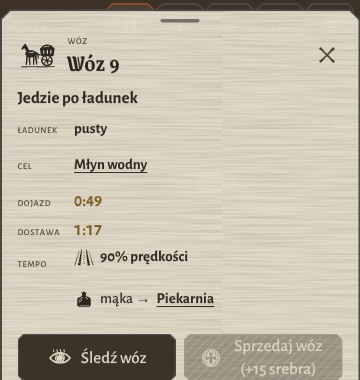
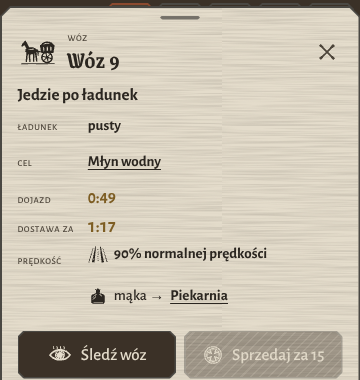
i18n for 17 languages: lazy dictionaries, ICU-lite plurals, RTL dir, per-script font stacks (D-18)
Claude-Session: https://claude.ai/code/session_019bNUiNWDs1XtC7FDp2iuqt

diff --git a/src/i18n/index.ts b/src/i18n/index.ts
@@ -1,24 +1,92 @@
+// i18n: typed dictionaries (pl.ts is the key source, D-11), lazily loaded per language (D-18),
+// ICU-lite plurals via Intl.PluralRules, RTL direction and per-script font stacks.
 import { en } from './en';
 import { pl, type Dict, type MessageKey } from './pl';
 
-export type Lang = 'pl' | 'en';
-const dicts: Record<Lang, Dict> = { pl, en };
-let current: Lang = 'pl';
+/** Supported languages (owner's list, D-18). Order = order in the settings list. */
+export const LANGS = [
+  'en', 'pl', 'de', 'fr', 'es', 'it', 'pt-BR', 'nl', 'sv', 'tr', 'ru', 'uk', 'ja', 'ko', 'zh-Hans', 'ar', 'hi',
+] as const;
+export type Lang = (typeof LANGS)[number];
+
+/** Native names for the language picker (never translated). */
+export const LANG_NAMES: Record<Lang, string> = {
+  en: 'English', pl: 'Polski', de: 'Deutsch', fr: 'Français', es: 'Español', it: 'Italiano',
+  'pt-BR': 'Português (Brasil)', nl: 'Nederlands', sv: 'Svenska', tr: 'Türkçe', ru: 'Русский',
+  uk: 'Українська', ja: '日本語', ko: '한국어', 'zh-Hans': '简体中文', ar: 'العربية', hi: 'हिन्दी',
+};
+
+export const RTL_LANGS: ReadonlySet<Lang> = new Set<Lang>(['ar']);
+
+/** Script family -> CSS class on <html> so styles can switch font stacks (see main.css). */
+export function scriptOf(l: Lang): 'latin' | 'cyrillic' | 'cjk' | 'arabic' | 'devanagari' {
+  if (l === 'ru' || l === 'uk') return 'cyrillic';
+  if (l === 'ja' || l === 'ko' || l === 'zh-Hans') return 'cjk';
+  if (l === 'ar') return 'arabic';
+  if (l === 'hi') return 'devanagari';
+  return 'latin';
+}
+
+/**
+ * Lazy loaders for the other dictionaries. A missing file simply falls back to English per key,
+ * so a language can ship partially translated during development.
+ */
+const loaders = import.meta.glob<{ default?: Partial<Dict> } & Record<string, Partial<Dict>>>(['./*.ts', '!./index.ts', '!./pl.ts', '!./en.ts']);
+const dicts: Partial<Record<Lang, Partial<Dict>>> = { pl, en };
+
+let current: Lang = 'en';
 const listeners = new Set<() => void>();
+
+function isLang(x: string | null | undefined): x is Lang {
+  return !!x && (LANGS as readonly string[]).includes(x);
+}
 
 export function detectLang(): Lang {
   try {
     const saved = localStorage.getItem('marchia.lang');
-    if (saved === 'pl' || saved === 'en') return saved;
+    if (isLang(saved)) return saved;
   } catch { /* storage unavailable */ }
-  const nav = typeof navigator !== 'undefined' ? navigator.language.toLowerCase() : 'pl';
-  return nav.startsWith('pl') ? 'pl' : 'en';
+  const navs = typeof navigator !== 'undefined' ? [...(navigator.languages ?? []), navigator.language] : [];
+  for (const raw of navs) {
+    const n = raw.toLowerCase();
+    if (n.startsWith('pt')) return 'pt-BR';
+    if (n.startsWith('zh')) return 'zh-Hans';
+    const base = n.split('-')[0]!;
+    const hit = LANGS.find((l) => l.toLowerCase() === base);
+    if (hit) return hit;
+  }
+  return 'en';
 }
 
-export function setLang(l: Lang): void {
+/** Languages that have a dictionary in the build (others are hidden in the picker until translated). */
+export function availableLangs(): Lang[] {
+  return LANGS.filter((l) => l === 'pl' || l === 'en' || `./${l.replace('-', '_')}.ts` in loaders);
+}
+
+export function parseLang(x: string | null | undefined): Lang | null {
+  return isLang(x) ? x : null;
+}
+
+async function loadDict(l: Lang): Promise<void> {
+  if (dicts[l]) return;
+  const file = `./${l.replace('-', '_')}.ts`;
+  const loader = loaders[file];
+  if (!loader) return; // not translated yet: English fallback
+  const mod = await loader();
+  const exportName = l.replace('-', '_').replace(/[^a-zA-Z_]/g, '');
+  dicts[l] = mod[exportName] ?? mod.default ?? {};
+}
+
+/** Switch language; resolves once the dictionary is loaded. Listeners re-render afterwards. */
+export async function setLang(l: Lang): Promise<void> {
+  await loadDict(l);
   current = l;
+  pluralCache = null;
   try { localStorage.setItem('marchia.lang', l); } catch { /* ignore */ }
-  document.documentElement.lang = l;
+  const root = document.documentElement;
+  root.lang = l;
+  root.dir = RTL_LANGS.has(l) ? 'rtl' : 'ltr';
+  root.dataset.script = scriptOf(l);
   for (const f of listeners) f();
 }
 
@@ -31,11 +99,34 @@ export function onLangChange(f: () => void): () => void {
   return () => listeners.delete(f);
 }
 
-/** Translate with {param} substitution. */
+let pluralCache: Intl.PluralRules | null = null;
+function pluralRules(): Intl.PluralRules {
+  return (pluralCache ??= new Intl.PluralRules(current));
+}
+
+/**
+ * ICU-lite plural blocks: `{n, plural, one {# wóz} few {# wozy} many {# wozów} other {# wozu}}`.
+ * `#` is replaced by the number. Categories follow Intl.PluralRules for the current language;
+ * `other` is required. Nested braces inside a branch are not supported (keep messages flat).
+ */
+export function formatPlural(s: string, params: Record<string, string | number>): string {
+  return s.replace(/\{(\w+), plural,((?:\s*(?:=\d+|zero|one|two|few|many|other)\s*\{[^{}]*\})+)\s*\}/g, (_m, name: string, body: string) => {
+    const n = Number(params[name] ?? 0);
+    const branches = new Map<string, string>();
+    body.replace(/\s*(=\d+|zero|one|two|few|many|other)\s*\{([^{}]*)\}/g, (_x, k: string, v: string) => { branches.set(k, v); return ''; });
+    const text = branches.get('=' + n) ?? branches.get(pluralRules().select(n)) ?? branches.get('other') ?? '';
+    return text.split('#').join(new Intl.NumberFormat(current).format(n));
+  });
+}
+
+/** Translate with plural blocks and {param} substitution; falls back to English, then the key. */
 export function t(key: MessageKey, params?: Record<string, string | number>): string {
-  let s: string = dicts[current][key] ?? key;
-  if (params) for (const [k, v] of Object.entries(params)) s = s.split('{' + k + '}').join(String(v));
+  let s: string = dicts[current]?.[key] ?? en[key] ?? key;
+  if (params) {
+    if (s.includes(', plural,')) s = formatPlural(s, params);
+    for (const [k, v] of Object.entries(params)) s = s.split('{' + k + '}').join(String(v));
+  }
   return s;
 }
 
-export type { MessageKey };
+export type { MessageKey, Dict };

diff --git a/src/styles/main.css b/src/styles/main.css
@@ -53,7 +53,7 @@ html, body {
   overflow: hidden;
   background: var(--ink);
   color: var(--ink);
-  font-family: 'Alegreya Sans', 'Gill Sans', 'Trebuchet MS', sans-serif;
+  font-family: var(--font-body);
   font-size: 15px;
   line-height: 1.3;
   -webkit-text-size-adjust: 100%;
@@ -80,7 +80,7 @@ button:focus-visible, [tabindex]:focus-visible { outline: 2px solid var(--ochre)
 svg { display: block; fill: currentColor; flex: none; }
 
 .num { font-variant-numeric: tabular-nums lining-nums; }
-.gothic { font-family: 'Grenze Gotisch', serif; font-weight: 600; letter-spacing: .01em; }
+.gothic { font-family: var(--font-head); font-weight: 600; letter-spacing: .01em; }
 
 #app { position: fixed; inset: 0; overflow: hidden; }
 
@@ -179,7 +179,7 @@ body.is-clear #hud, body.is-clear #markers, body.is-clear #sheets, body.is-clear
   width: 10px; height: 10px; background: radial-gradient(circle at 35% 35%, #8a8478 0 18%, var(--iron) 22%); clip-path: polygon(30% 0, 70% 0, 100% 30%, 100% 70%, 70% 100%, 30% 100%, 0 70%, 0 30%);
 }
 .menu-strip .title {
-  font-family: 'Grenze Gotisch', serif;
+  font-family: var(--font-head);
   font-weight: 700;
   font-size: 52px;
   line-height: .95;
@@ -210,7 +210,7 @@ body.is-clear #hud, body.is-clear #markers, body.is-clear #sheets, body.is-clear
   align-items: center;
   gap: 12px;
   text-align: left;
-  font-family: 'Grenze Gotisch', serif;
+  font-family: var(--font-head);
   font-weight: 600;
   font-size: 26px;
   line-height: 1.05;
@@ -224,7 +224,7 @@ body.is-clear #hud, body.is-clear #markers, body.is-clear #sheets, body.is-clear
 .menu-item.primary .mi-mark { background: var(--clay); }
 .menu-item .mi-sub {
   display: block;
-  font-family: 'Alegreya Sans', sans-serif;
+  font-family: var(--font-body);
   font-weight: 400;
   font-size: 13px;
   color: var(--ink-soft);
@@ -255,7 +255,7 @@ body.is-clear #hud, body.is-clear #markers, body.is-clear #sheets, body.is-clear
 }
 .waybill h2 {
   margin: 0 40px 6px 0;
-  font-family: 'Grenze Gotisch', serif;
+  font-family: var(--font-head);
   font-weight: 600;
   font-size: 22px;
   line-height: 1;
@@ -602,7 +602,7 @@ body.is-landscape.left-handed .notice-wrap { right: calc(var(--safe-r) + 12px); 
 .sheet-head .sh-icon { width: 40px; height: 40px; display: grid; place-items: center; flex: none; }
 .sheet-head .sh-text { flex: 1; min-width: 0; }
 .sheet-head .kicker { font-size: 13px; color: var(--ink-soft); font-weight: 500; letter-spacing: .04em; font-variant: small-caps; text-transform: lowercase; }
-.sheet-head h3 { margin: 0; font-family: 'Grenze Gotisch', serif; font-weight: 600; font-size: 28px; line-height: 1.05; }
+.sheet-head h3 { margin: 0; font-family: var(--font-head); font-weight: 600; font-size: 28px; line-height: 1.05; }
 .sheet-head .close { width: 48px; height: 48px; display: grid; place-items: center; color: var(--ink-soft); }
 .sheet-head .close:active { color: var(--ink); }
 .sheet-body {
@@ -816,7 +816,7 @@ body.is-side .sheet-grip::before { display: none; }
   pointer-events: none;
 }
 .letter .l-kicker { font-size: 13px; letter-spacing: .1em; font-variant: small-caps; text-transform: lowercase; color: var(--ink-soft); font-weight: 500; }
-.letter h2 { margin: 2px 0 8px; font-family: 'Grenze Gotisch', serif; font-weight: 700; font-size: 40px; line-height: 1; }
+.letter h2 { margin: 2px 0 8px; font-family: var(--font-head); font-weight: 700; font-size: 40px; line-height: 1; }
 .letter p { margin: 0 0 12px; font-size: 17px; }
 .big-seal { position: absolute; top: -28px; right: 22px; color: var(--clay); width: 72px; height: 72px; transform: rotate(8deg); }
 .big-seal.broken { color: var(--iron); clip-path: polygon(0 0, 100% 0, 100% 38%, 62% 52%, 70% 100%, 0 100%); }
@@ -1026,4 +1026,29 @@ body.is-book.is-side .sheet { width: min(380px, calc(var(--seg-right-w) - 20px))
 [hidden] { display: none !important; }
 @media (prefers-reduced-motion: reduce) {
   *, *::before, *::after { animation-duration: 1ms !important; transition-duration: 1ms !important; }
+}
+
+
+/* --- Script-specific font stacks (D-18). Latin and Cyrillic are bundled (OFL); CJK, Arabic and
+   Devanagari use the OS Noto families that ship with Android/iOS, to keep the APK small. --- */
+:root {
+  --font-head: 'Grenze Gotisch', serif;
+  --font-body: 'Alegreya Sans', 'Gill Sans', 'Trebuchet MS', sans-serif;
+}
+:root[data-script='cyrillic'] {
+  --font-head: 'Ruslan Display', 'Alegreya Sans', serif;
+}
+:root[data-script='cjk'] {
+  --font-head: 'Noto Serif CJK JP', 'Noto Serif CJK KR', 'Noto Serif CJK SC', 'Noto Serif JP', 'Noto Serif KR', 'Noto Serif SC', serif;
+  --font-body: 'Noto Sans CJK JP', 'Noto Sans CJK KR', 'Noto Sans CJK SC', 'Noto Sans JP', 'Noto Sans KR', 'Noto Sans SC', sans-serif;
+}
+:root[lang='ko'] { --font-head: 'Noto Serif CJK KR', 'Noto Serif KR', serif; --font-body: 'Noto Sans CJK KR', 'Noto Sans KR', sans-serif; }
+:root[lang='zh-Hans'] { --font-head: 'Noto Serif CJK SC', 'Noto Serif SC', serif; --font-body: 'Noto Sans CJK SC', 'Noto Sans SC', sans-serif; }
+:root[data-script='arabic'] {
+  --font-head: 'Noto Naskh Arabic', 'Noto Sans Arabic', serif;
+  --font-body: 'Noto Naskh Arabic', 'Noto Sans Arabic', sans-serif;
+}
+:root[data-script='devanagari'] {
+  --font-head: 'Noto Serif Devanagari', 'Noto Sans Devanagari', serif;
+  --font-body: 'Noto Sans Devanagari', sans-serif;
 }

diff --git a/src/ui/menu.ts b/src/ui/menu.ts
@@ -1,6 +1,6 @@
 // Main menu strip over the live scene, the settings sheet, the in-game menu sheet and the
 // end-of-mission sealed letter.
-import { getLang, setLang, t, type Lang, type MessageKey } from '../i18n/index';
+import { LANG_NAMES, availableLangs, getLang, setLang, t, type Lang, type MessageKey } from '../i18n/index';
 import { GOODS, MISSIONS, type World } from '../sim/index';
 import { deckle, esc, h, setHtml } from './dom';
 import { goodName, ticksClock } from './format';
@@ -77,7 +77,7 @@ export function settingsSheet(act: SettingsActions): SheetContent {
           `<button class="btn cf${v === cur ? ' is-on' : ''}" data-set="${name}:${v}" aria-pressed="${v === cur}">${esc(l)}</button>`).join('')}</div>`;
       const html = `
         <div class="setting"><span class="s-label">${esc(t('menu.language'))}</span>
-          ${seg('lang', [['pl', t('lang.pl')], ['en', t('lang.en')]], getLang())}</div>
+          ${seg('lang', availableLangs().map((l) => [l, LANG_NAMES[l]] as [string, string]), getLang())}</div>
         <div class="setting"><span class="s-label">${esc(t('menu.quality'))}</span>
           ${seg('quality', [['auto', t('quality.auto')], ['low', t('quality.low')], ['high', t('quality.high')], ['ultra', t('quality.ultra')]], act.quality())}
           <div class="s-hint">${esc(act.quality() === 'auto' ? t('menu.qualityDetected', { q: t(`quality.${act.autoQuality()}` as MessageKey) }) : t('menu.qualityHint'))}</div></div>
@@ -100,7 +100,7 @@ export function settingsSheet(act: SettingsActions): SheetContent {
         });
         sheet.body.querySelectorAll<HTMLElement>('[data-set]').forEach((b) => b.addEventListener('click', () => {
           const [k, v] = (b.dataset.set ?? '').split(':');
-          if (k === 'lang') setLang(v as Lang);
+          if (k === 'lang') void setLang(v as Lang);
           if (k === 'quality') act.setQuality(v as QualityPref);
           if (k === 'left') act.setLeftHanded(v === '1');
           (sheet.body as HTMLElement & { __html?: string }).__html = undefined;

diff --git a/src/main.ts b/src/main.ts
@@ -8,10 +8,15 @@ import '@fontsource/alegreya-sans/latin-ext-400.css';
 import '@fontsource/alegreya-sans/latin-500.css';
 import '@fontsource/alegreya-sans/latin-ext-500.css';
 import '@fontsource/alegreya-sans/latin-700.css';
+import '@fontsource/alegreya-sans/cyrillic-400.css';
+import '@fontsource/alegreya-sans/cyrillic-500.css';
+import '@fontsource/alegreya-sans/cyrillic-700.css';
+import '@fontsource/alegreya-sans/cyrillic-ext-400.css';
+import '@fontsource/ruslan-display/cyrillic-400.css';
 import '@fontsource/alegreya-sans/latin-ext-700.css';
 import './styles/main.css';
 
-import { detectLang, setLang } from './i18n/index';
+import { detectLang, parseLang, setLang } from './i18n/index';
 import type { CreateWorldView, WorldView } from './render/api';
 import { App } from './ui/app';
 import { createFlatView } from './ui/flatView';
@@ -38,7 +43,7 @@ async function pickView(params: URLSearchParams): Promise<{ view: WorldView; kin
 async function boot(): Promise<void> {
   const params = new URLSearchParams(location.search);
   const lang = params.get('lang');
-  setLang(lang === 'pl' || lang === 'en' ? lang : detectLang());
+  void setLang(parseLang(lang) ?? detectLang());
   // Fonts first so the first frame of the menu is set in the right faces.
   try {
     await Promise.race([

diff --git a/docs/BACKLOG.md b/docs/BACKLOG.md
@@ -13,7 +13,10 @@ Zrobione przenoś do sekcji „Zrobione” z datą i commitem.
 - [ ] P1 — (D-17) 4K jako pakiet do pobrania: w APK tylko 2K (+low); pobieranie 4K po wyborze Ultra (Play Asset Delivery lub własne pobieranie do pamięci aplikacji), pasek postępu, weryfikacja SHA-256, możliwość usunięcia.
 - [ ] P2 — (D-17 kolejność) Samouczek misji I (docs/tutorial/m1.md) + gotowość do playtestu (docs/playtest).
 - [ ] P4 — (D-17 kolejność) Misje IV–VI (po samouczku) → budowanie w wolnej dolinie.
-- [ ] — Języki: czekamy na listę od właściciela. Sklep/płatności/release: odłożone (D-17).
+- [ ] P2 — (D-18) 17 języków: tłumaczenia przez GPT (paczka 04), integracja plików `src/i18n/<lang>.ts`, przegląd długości tekstów na zrzutach dla DE/RU/AR/JA.
+- [ ] P2 — (D-18) RTL dla arabskiego: przejść CSS na właściwości logiczne (inline-start/end), lustrzane ułożenie listwy i arkuszy, ikony kierunkowe (strzałki) odbite; zrzuty `?lang=ar`.
+- [ ] P3 — (D-18) Teksty liczbowe z liczbą mnogą w pl.ts/en.ts przepisać na bloki `{n, plural, …}` (np. „3 pola”, „{n} srebra”), formaty liczb/czasu przez Intl.
+- [ ] — Sklep/płatności/release: odłożone (D-17).
 - [ ] P3 — Przy wydaniu: zaznaczyć treści AI (muzyka Suno) w ankietach Google Play / App Store (D-16). Plan Suno płatny — potwierdzone przez właściciela 2026-11-01.
 - [ ] P2 — Wczesne wykrycie „brak drogi do zwycięstwa” (brak ścieżki do zamku i srebro < koszt najtańszej przeprawy, a wozów nie ma do sprzedania) → list z przyczyną.
 - [ ] P2 — Drogi z daleka prawie niewidoczne (view-far-*.png): łamie zasadę „drogi są rysunkiem” z ART_DIRECTION — zwiększyć kontrast/szerokość toru przy dalekim zoomie (src/render/terrain.ts) (źródło: claude).

diff --git a/docs/DECISIONS.md b/docs/DECISIONS.md
@@ -109,3 +109,11 @@ in-game when Ultra is chosen (Play Asset Delivery or own download — to be desi
 4K + foldables: tutorial + playtest readiness → missions IV–VI → building in the free valley; store,
 billing and release builds are postponed until the game is fully playable. (3) Languages beyond PL/EN:
 the owner will send a list. (4) No Google Play release/signing yet — debug APKs only. (decided)
+
+**D-18 — 17 languages (owner's list).** en, pl, de, fr, es, it, pt-BR, nl, sv, tr, ru, uk, ja, ko, zh-Hans, ar, hi.
+Dictionaries `src/i18n/<lang>.ts` (`pt_BR.ts`, `zh_Hans.ts`; export name = file name) typed `Partial<Dict>` are
+lazy-loaded (Vite glob) so each language costs only when chosen; missing keys fall back to English. Plurals use
+ICU-lite blocks `{n, plural, one {…} few {…} many {…} other {…}}` resolved with `Intl.PluralRules`. Arabic sets
+`dir="rtl"`. Fonts: Latin + Cyrillic bundled (Grenze Gotisch / Ruslan Display for Cyrillic headings, Alegreya Sans
+incl. Cyrillic), CJK / Arabic / Devanagari use the OS Noto families (Android/iOS ship them) — bundling CJK would
+add tens of MB. The picker shows only languages present in the build. (decided)
